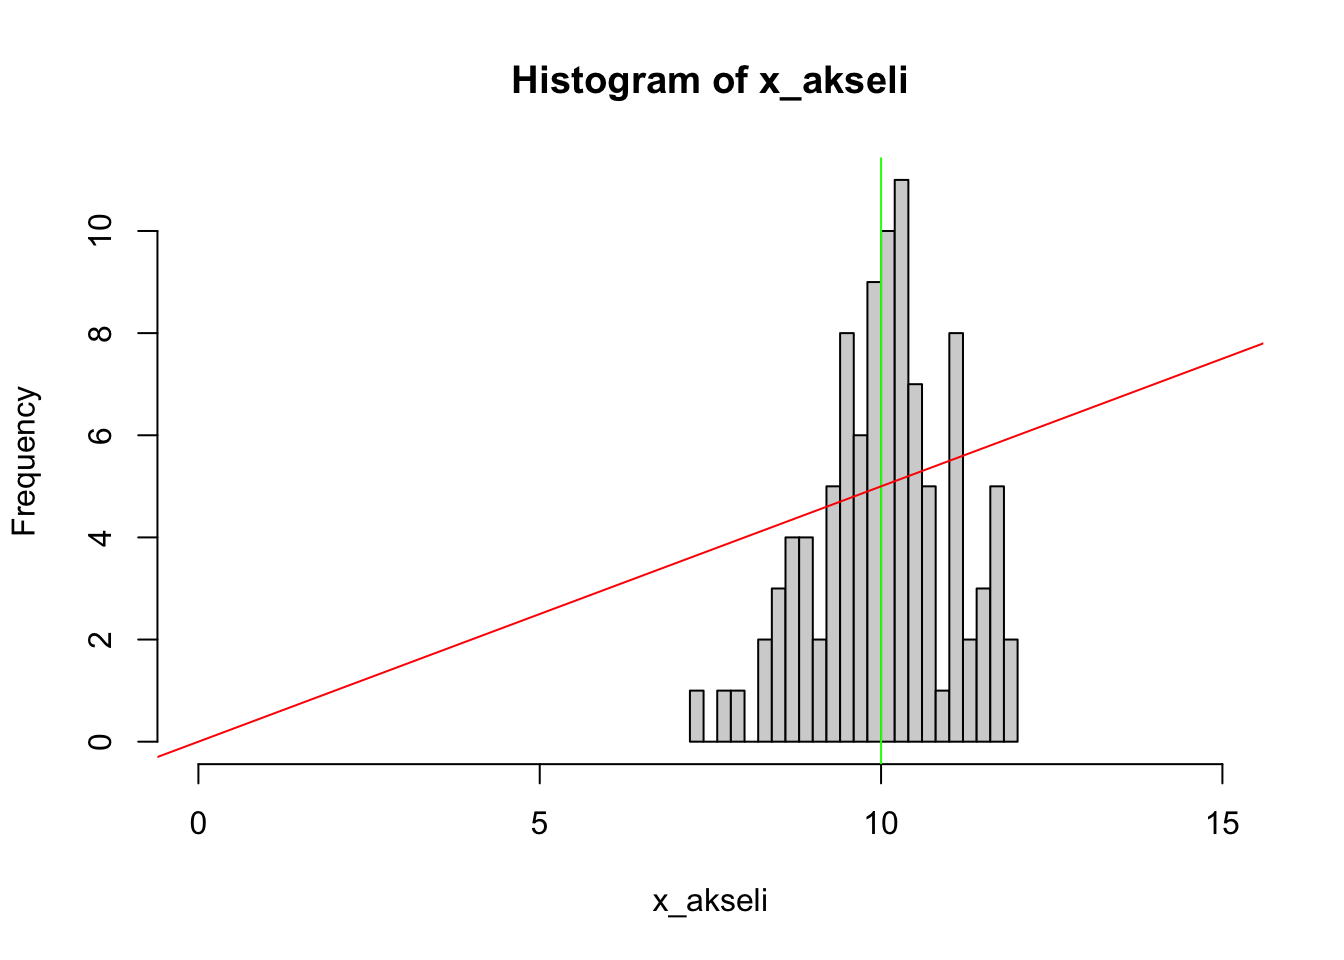
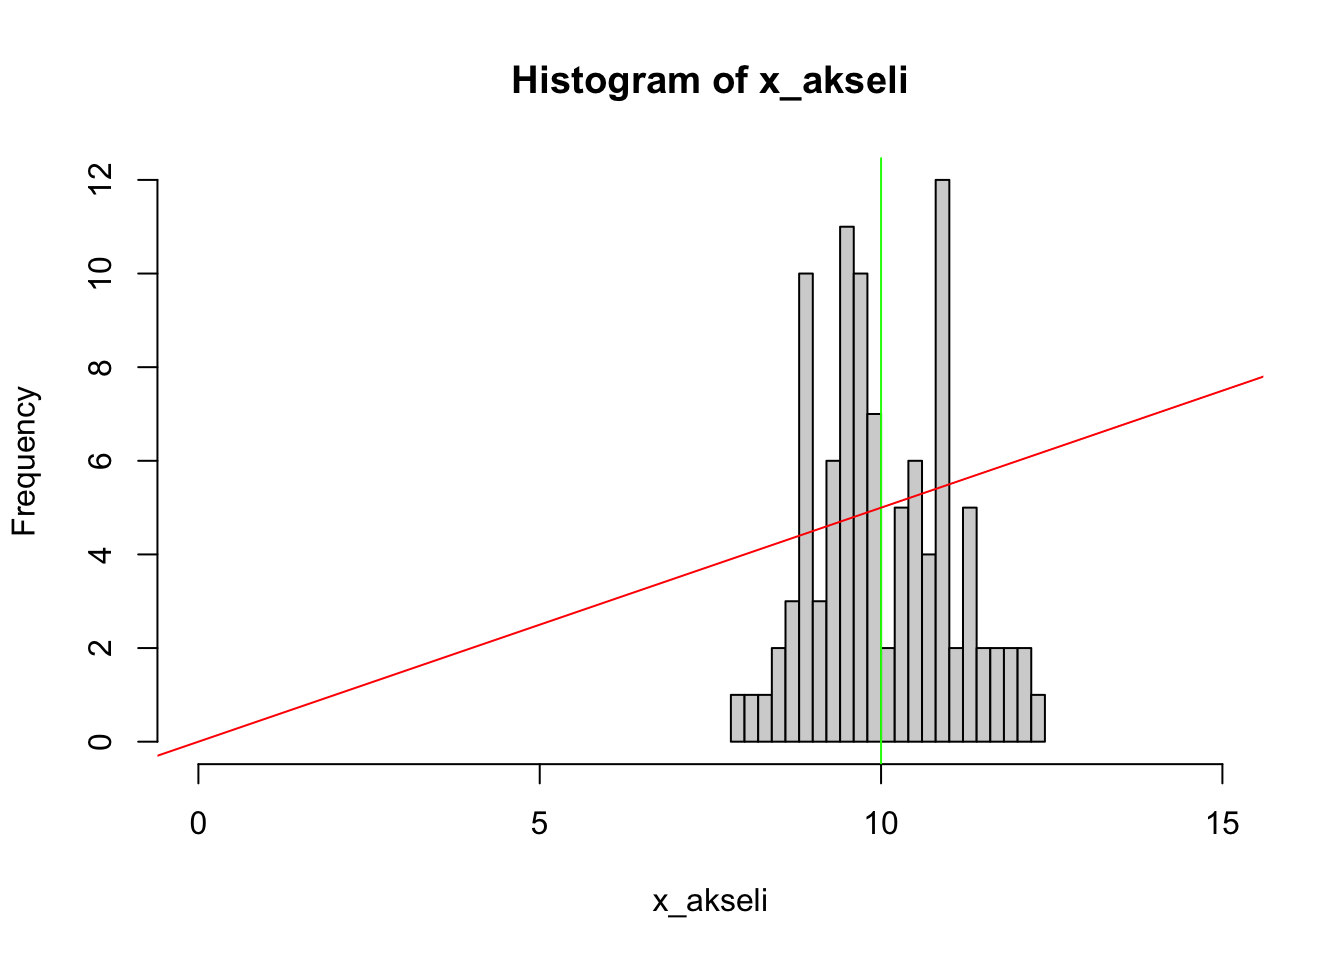
renderöitiin kirja ja katsotaan, jos nyt alkaisi sivu näyttää samalta

diff --git a/docs/R_komentoja/DatasetinLuominen.html b/docs/R_komentoja/DatasetinLuominen.html
@@ -2264,9 +2264,9 @@ globalThis.qwebrCreateMonacoEditorInstance = function (cellData) {
 <span id="cb3-5"><a href="#cb3-5" aria-hidden="true" tabindex="-1"></a></span>
 <span id="cb3-6"><a href="#cb3-6" aria-hidden="true" tabindex="-1"></a><span class="fu">aggregate</span>(arvo <span class="sc">~</span> ryhmä, <span class="at">data =</span> data, <span class="at">FUN =</span> mean)</span></code></pre></div><button title="Copy to Clipboard" class="code-copy-button"><i class="bi"></i></button></div>
 <div class="cell-output cell-output-stdout">
-<pre><code>  ryhmä     arvo
-1     1 1.005265
-2     2 2.985003</code></pre>
+<pre><code>  ryhmä      arvo
+1     1 0.9689136
+2     2 3.0100817</code></pre>
 </div>
 </div>
 <ul>
@@ -2318,8 +2318,8 @@ globalThis.qwebrCreateMonacoEditorInstance = function (cellData) {
 <div class="cell">
 <div class="code-copy-outer-scaffold"><div class="sourceCode cell-code" id="cb9"><pre class="sourceCode r code-with-copy"><code class="sourceCode r"><span id="cb9-1"><a href="#cb9-1" aria-hidden="true" tabindex="-1"></a><span class="fu">rnorm</span>(<span class="dv">10</span>, <span class="dv">6</span>, <span class="dv">2</span>) </span></code></pre></div><button title="Copy to Clipboard" class="code-copy-button"><i class="bi"></i></button></div>
 <div class="cell-output cell-output-stdout">
-<pre><code> [1] 6.290762 7.641074 6.146621 3.298738 8.353707 4.157428 6.801021 7.288050
- [9] 5.884233 6.459264</code></pre>
+<pre><code> [1] 2.233461 8.387503 5.134432 5.023553 1.141571 8.970989 8.816711 7.321135
+ [9] 4.038711 6.041165</code></pre>
 </div>
 </div>
 <p>Tarkistetaan, että keskiarvo ja keskihajonta pitävät paikkansa.</p>
@@ -2339,8 +2339,8 @@ globalThis.qwebrCreateMonacoEditorInstance = function (cellData) {
 <span id="cb11-13"><a href="#cb11-13" aria-hidden="true" tabindex="-1"></a><span class="fu">data.frame</span>(<span class="at">N10 =</span> <span class="fu">c</span>(m1,sd1), <span class="at">N100 =</span> <span class="fu">c</span>(m2,sd2), <span class="at">N1000 =</span> <span class="fu">c</span>(m3, sd3), <span class="at">row.names =</span> RivNimet)</span></code></pre></div><button title="Copy to Clipboard" class="code-copy-button"><i class="bi"></i></button></div>
 <div class="cell-output cell-output-stdout">
 <pre><code>                  N10     N100    N1000
-Keskiarvo    7.004898 5.981270 6.076430
-Keskihajonta 1.550506 1.891508 1.967597</code></pre>
+Keskiarvo    5.770680 5.873262 6.023414
+Keskihajonta 3.057075 1.754728 1.890906</code></pre>
 </div>
 </div>
 <p>Isommalla n:llä näyttäisi osuvan vielä tarkemmin kohdalleen.</p>

diff --git a/docs/R_kurssi/Osa03.html b/docs/R_kurssi/Osa03.html
@@ -599,16 +599,16 @@ div.csl-indent {
 <span id="cb17-4"><a href="#cb17-4" aria-hidden="true" tabindex="-1"></a></span>
 <span id="cb17-5"><a href="#cb17-5" aria-hidden="true" tabindex="-1"></a><span class="fu">sort</span>(PermDiffs)</span></code></pre></div><button title="Copy to Clipboard" class="code-copy-button"><i class="bi"></i></button></div>
 <div class="cell-output cell-output-stdout">
-<pre><code>  [1] -16.04 -11.96  -9.12  -8.36  -8.12  -7.44  -6.64  -5.92  -5.72  -5.36
- [11]  -5.32  -5.24  -5.04  -4.92  -4.76  -4.20  -4.08  -3.92  -3.72  -3.72
- [21]  -3.52  -3.48  -3.44  -2.96  -2.80  -2.80  -2.64  -2.64  -2.56  -2.52
- [31]  -2.44  -2.40  -2.28  -2.24  -1.96  -1.92  -1.80  -1.76  -1.68  -1.60
- [41]  -1.32  -1.32  -1.28  -1.20  -1.04  -0.68  -0.56  -0.48  -0.24  -0.24
- [51]  -0.16   0.04   0.16   0.32   0.36   0.44   0.68   1.16   1.20   1.36
- [61]   1.60   1.68   2.00   2.12   2.20   2.28   2.32   2.36   3.52   3.64
- [71]   3.76   3.84   3.84   4.32   4.44   4.72   4.72   5.28   5.48   5.80
- [81]   5.88   5.88   7.00   7.00   7.12   7.48   7.48   7.60   7.72   8.28
- [91]   8.36   8.44   8.52   9.64   9.68  10.00  10.32  10.84  11.12  12.88</code></pre>
+<pre><code>  [1] -12.84 -12.80 -10.80 -10.24 -10.08  -9.28  -9.00  -8.76  -8.44  -8.40
+ [11]  -8.16  -7.96  -7.76  -6.40  -6.36  -6.04  -5.76  -5.56  -5.24  -5.04
+ [21]  -5.00  -4.52  -4.28  -4.24  -3.96  -3.96  -3.36  -3.12  -2.92  -2.88
+ [31]  -2.80  -2.80  -2.72  -2.48  -2.44  -2.32  -2.32  -2.28  -2.00  -1.72
+ [41]  -1.48  -1.40  -1.32  -1.20  -0.88  -0.84  -0.72  -0.68  -0.48  -0.48
+ [51]  -0.40  -0.40   0.00   0.00   0.04   0.04   0.04   0.48   0.60   0.64
+ [61]   0.76   0.88   0.92   0.92   1.16   1.24   1.28   1.32   1.52   1.64
+ [71]   1.72   2.20   2.36   2.68   3.08   3.32   3.72   4.24   4.40   4.68
+ [81]   4.76   4.80   5.12   5.48   6.00   6.16   6.52   6.52   6.60   6.84
+ [91]   7.24   7.52   7.68   7.72   8.88  10.72  12.16  12.52  12.60  17.24</code></pre>
 </div>
 <div class="code-copy-outer-scaffold"><div class="sourceCode cell-code" id="cb19"><pre class="sourceCode r code-with-copy"><code class="sourceCode r"><span id="cb19-1"><a href="#cb19-1" aria-hidden="true" tabindex="-1"></a><span class="co"># tässä tapauksessa kaikki permutaatioiden keskiarvoerot jäävät todellisen keskiarvoeron alle eli sen </span></span>
 <span id="cb19-2"><a href="#cb19-2" aria-hidden="true" tabindex="-1"></a>  <span class="co"># mukaan ero on hyvinkin merkitsevä </span></span>

diff --git a/docs/R_kurssi/Osa02.html b/docs/R_kurssi/Osa02.html
@@ -382,19 +382,19 @@ pre > code.sourceCode > span > a:first-child::before { text-decoration: underlin
 <span id="cb1-7"><a href="#cb1-7" aria-hidden="true" tabindex="-1"></a><span class="fu">aggregate</span>(Age <span class="sc">~</span> Group, <span class="at">data =</span> data, <span class="at">FUN =</span> mean)</span></code></pre></div><button title="Copy to Clipboard" class="code-copy-button"><i class="bi"></i></button></div>
 <div class="cell-output cell-output-stdout">
 <pre><code>   Group   Age
-1 GroupA 42.67
-2 GroupB 41.79
-3 GroupC 41.44</code></pre>
+1 GroupA 42.55
+2 GroupB 41.80
+3 GroupC 41.45</code></pre>
 </div>
 <div class="code-copy-outer-scaffold"><div class="sourceCode cell-code" id="cb3"><pre class="sourceCode r code-with-copy"><code class="sourceCode r"><span id="cb3-1"><a href="#cb3-1" aria-hidden="true" tabindex="-1"></a><span class="fu">quantile</span>(data<span class="sc">$</span>WM, <span class="at">probs =</span> <span class="fu">seq</span>(<span class="dv">0</span>, <span class="dv">1</span>, <span class="fl">0.9</span>))</span></code></pre></div><button title="Copy to Clipboard" class="code-copy-button"><i class="bi"></i></button></div>
 <div class="cell-output cell-output-stdout">
 <pre><code> 0% 90% 
-  1  92 </code></pre>
+  1  87 </code></pre>
 </div>
 <div class="code-copy-outer-scaffold"><div class="sourceCode cell-code" id="cb5"><pre class="sourceCode r code-with-copy"><code class="sourceCode r"><span id="cb5-1"><a href="#cb5-1" aria-hidden="true" tabindex="-1"></a><span class="fu">apply</span>(data[,<span class="dv">2</span><span class="sc">:</span><span class="dv">3</span>], <span class="dv">2</span>, mean) </span></code></pre></div><button title="Copy to Clipboard" class="code-copy-button"><i class="bi"></i></button></div>
 <div class="cell-output cell-output-stdout">
 <pre><code>     Age       WM 
-41.96667 49.53000 </code></pre>
+41.93333 49.27667 </code></pre>
 </div>
 </div>
 <p>Aggregate funktiossa ensiksi valitaan numeerinen freimi datasetistä, josta keskiarvo (tai jokin muu) lasketaan, sitten ~ merkin jälkeen # ryhmittelevä tekijä, eli se minkä mukaan data jaotellaan. # data = kohtaan datasetti, # FUN = kohtaan käytettävä funktio, jota käytetään.</p>

diff --git a/docs/R_komentoja/Tilastotesteja.html b/docs/R_komentoja/Tilastotesteja.html
@@ -396,13 +396,13 @@ div.csl-indent {
     Welch Two Sample t-test
 
 data:  R1 and R2
-t = -4.6515, df = 95.574, p-value = 1.058e-05
+t = -4.9796, df = 97.115, p-value = 2.765e-06
 alternative hypothesis: true difference in means is not equal to 0
 95 percent confidence interval:
- -1.2339499 -0.4957619
+ -1.2777974 -0.5495043
 sample estimates:
- mean of x  mean of y 
-0.01061623 0.87547211 </code></pre>
+mean of x mean of y 
+0.1990797 1.1127305 </code></pre>
 </div>
 </div>
 <p>Mitä tietoja testi näyttää</p>
@@ -431,13 +431,13 @@ sample estimates:
     Welch Two Sample t-test
 
 data:  arvo by ryhmä
-t = -5.7096, df = 97.973, p-value = 1.212e-07
+t = -3.8169, df = 97.803, p-value = 0.000237
 alternative hypothesis: true difference in means between group 1 and group 2 is not equal to 0
 95 percent confidence interval:
- -1.4296323 -0.6921643
+ -1.1283636 -0.3563903
 sample estimates:
 mean in group 1 mean in group 2 
-      0.1979399       1.2588382 </code></pre>
+      0.2567001       0.9990771 </code></pre>
 </div>
 </div>
 </section>
